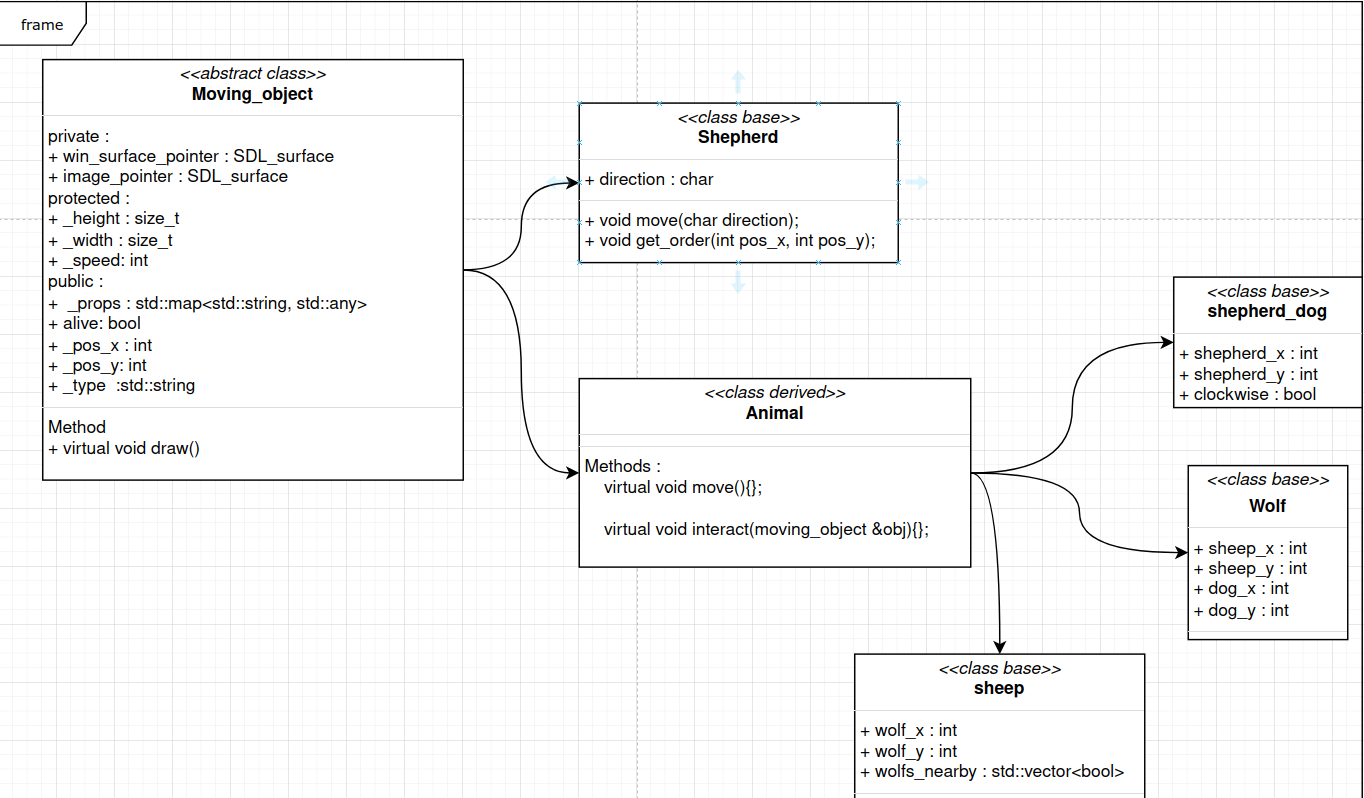
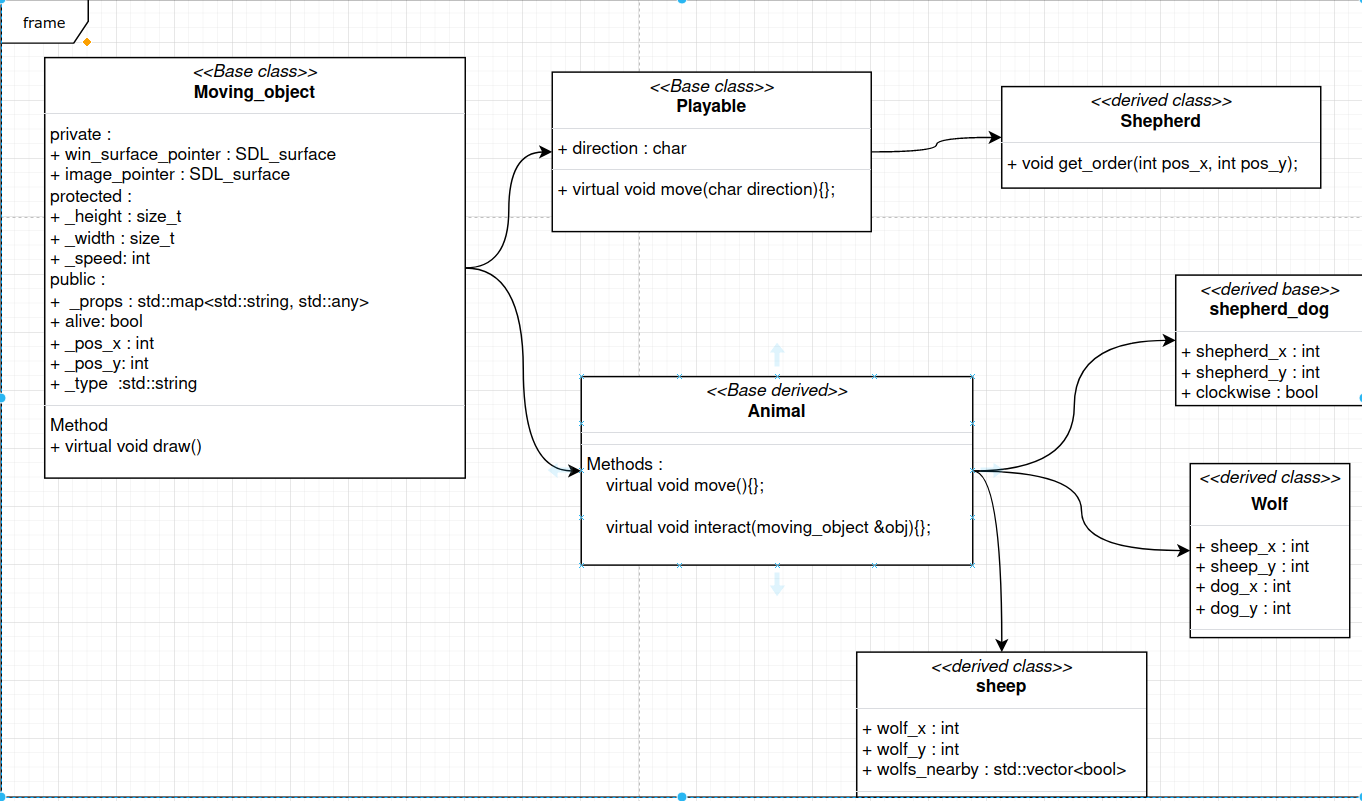
modelization objects

diff --git a/Project_SDL_base/Project_SDL1.cpp b/Project_SDL_base/Project_SDL1.cpp
@@ -223,7 +223,6 @@ void sheep::move()
     // if there are a wolf nearby then run !!!
     if (std::binary_search(wolfs_nearby.begin(), wolfs_nearby.end(), true))
     {
-        // std::cout << " wolf nearby !! \n";
         _speed += sheep_addition_speed;
         get_next_pos_to_des(_pos_x, _pos_y, wolf_x, wolf_y, _speed, _height,
                             _width, true);
@@ -352,30 +351,6 @@ void shepherd_dog::interact(moving_object &obj)
         _props["order_y"] = obj._props["order_y"];
     }
 }
-// void shepherd_dog::go_around_shepherd()
-// {
-    // int xdiff = this->_pos_x - shepherd_x;
-    // int ydiff = this->_pos_y - shepherd_y;
-
-    // // clockwise rotation
-    // _pos_x = cos(dog_spin_speed) * (xdiff)-sin(dog_spin_speed) * (ydiff)
-    //     + shepherd_x;
-    // _pos_y = sin(dog_spin_speed) * (xdiff) + cos(dog_spin_speed) * (ydiff)
-    //     + shepherd_y;
-    // if (_pos_x < 0 || _pos_x + _width > frame_width || _pos_y < 0
-    //     || _pos_y + _height > frame_height)
-    //     clockwise = !clockwise;
-    // if (!clockwise)
-    // {
-    //     // counter clockwise rotation
-    //     _pos_x = cos(dog_spin_speed) * (xdiff) + sin(dog_spin_speed) *
-    //     (ydiff)
-    //         + shepherd_x;
-    //     _pos_y = -sin(dog_spin_speed) * (xdiff) + cos(dog_spin_speed) *
-    //     (ydiff)
-    //         + shepherd_y;
-    // }
-// }
 void shepherd_dog::move()
 {
     int order_x = std::any_cast<int>(_props["order_x"]);
@@ -408,8 +383,15 @@ void shepherd_dog::move()
 }
 
 //---------------------- shepherd class ------------------------------
+playable::playable(const std::string &file_path,
+                   SDL_Surface *window_surface_ptr)
+    : moving_object(file_path, window_surface_ptr)
+{
+    std::cout << "Initialization playable character \n";
+}
+
 shepherd::shepherd(SDL_Surface *window_surface_ptr)
-    : moving_object("../media/Shepherd.bmp", window_surface_ptr)
+    : playable("../media/Shepherd.bmp", window_surface_ptr)
 {
     this->_height = 89;
     this->_width = 60;
@@ -580,16 +562,20 @@ int application::loop(unsigned period)
             {
                 switch (window_event_.key.keysym.sym)
                 {
-                case SDLK_z: case SDLK_UP:
+                case SDLK_z:
+                case SDLK_UP:
                     direction = 'u';
                     break;
-                case SDLK_s:case SDLK_DOWN:
+                case SDLK_s:
+                case SDLK_DOWN:
                     direction = 'd';
                     break;
-                case SDLK_q:case SDLK_LEFT:
+                case SDLK_q:
+                case SDLK_LEFT:
                     direction = 'l';
                     break;
-                case SDLK_d:case SDLK_RIGHT:
+                case SDLK_d:
+                case SDLK_RIGHT:
                     direction = 'r';
                     break;
                 }

diff --git a/Project_SDL_base/Project_SDL1.h b/Project_SDL_base/Project_SDL1.h
@@ -13,7 +13,7 @@
 #include <vector>
 
 // Defintions
-constexpr double frame_rate = 30.0; // refresh rate
+constexpr double frame_rate = 60.0; // refresh rate
 constexpr double frame_time = 1000. / frame_rate;
 constexpr unsigned frame_width = 1400; // Width of window in pixel
 constexpr unsigned frame_height = 900; // Height of window in pixel
@@ -34,7 +34,8 @@ constexpr int wolf_eat_dis = 40;
 // ---------- shepherd dog --------
 constexpr float dog_spin_speed = 0.1; // 0 to 1
 constexpr int dog_dis_fr_shepherd = 150;
-constexpr int dog_dis_fr_order = 10; // the distance between the dog and the position ordered
+constexpr int dog_dis_fr_order =
+    10; // the distance between the dog and the position ordered
 
 // Helper function to initialize SDL
 void init();
@@ -60,7 +61,6 @@ public:
                   SDL_Surface *window_surface_ptr);
     virtual ~moving_object(); // Use the destructor to release memory and
     virtual void draw();
-
 };
 class animal : public moving_object
 {
@@ -78,7 +78,7 @@ class sheep : public animal
     int wolf_x = 0;
     int wolf_y = 0;
     // list of the wolfs that is near the sheep
-    std::vector<bool> wolfs_nearby; 
+    std::vector<bool> wolfs_nearby;
 
 public:
     sheep(SDL_Surface *window_surface_ptr);
@@ -92,7 +92,7 @@ class shepherd_dog : public animal
     // Ctor
     int shepherd_x = 0;
     int shepherd_y = 0;
-    bool clockwise = true; 
+    bool clockwise = true;
     //  the rotate's direction of dog
 
 public:
@@ -123,16 +123,28 @@ public:
     virtual void move() override;
     virtual void interact(moving_object &obj) override;
 };
-
-class shepherd : public moving_object
+class playable : public moving_object
 {
     char direction;
+
+public:
+    playable(const std::string &file_path, SDL_Surface *window_surface_ptr);
+    ~playable(){}; // Dtor, again for clean up (if necessary)
+
+    virtual void move(char direction){}; // Animals move around, but in a different
+    // virtual void move(char direction){};
+
+};
+
+class shepherd : public playable
+{
+    // char direction;
 
 public:
     shepherd(SDL_Surface *); // Ctor
     ~shepherd(); // Dtor, again for clean up (if necessary)
 
-    void move(char direction);
+    virtual void move(char direction) override;
     void get_order(int pos_x, int pos_y);
 };
 
